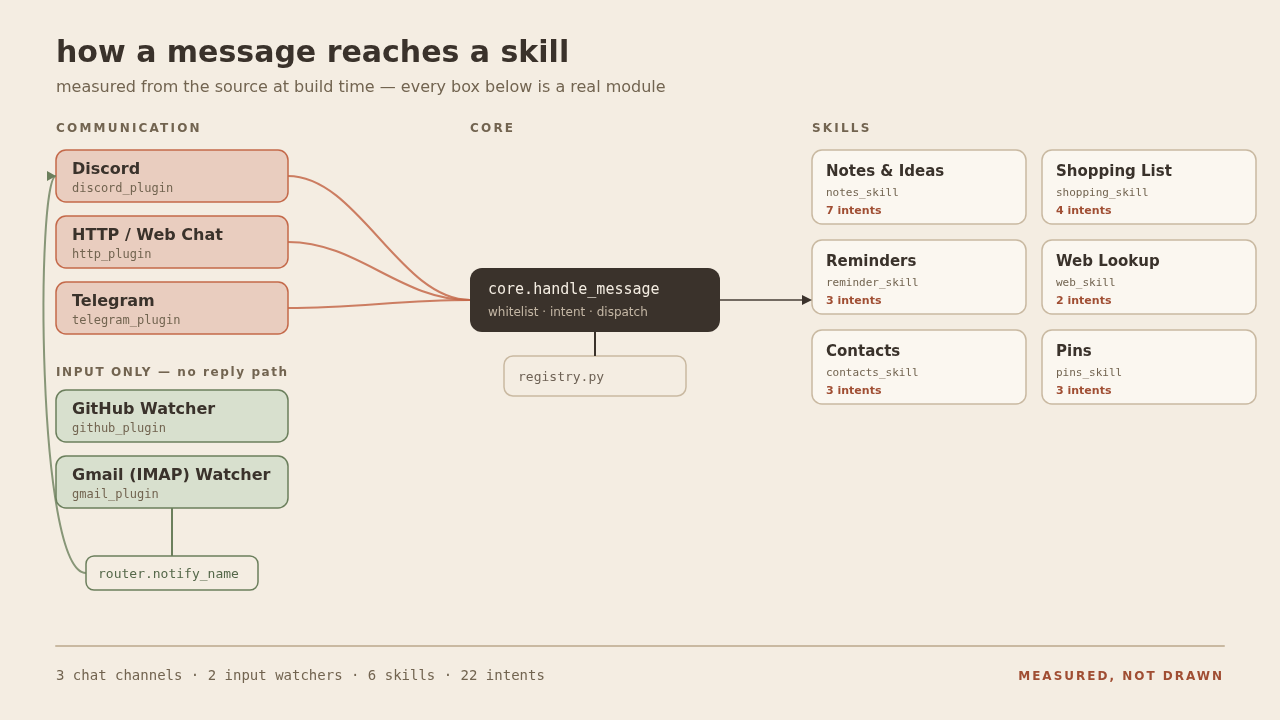
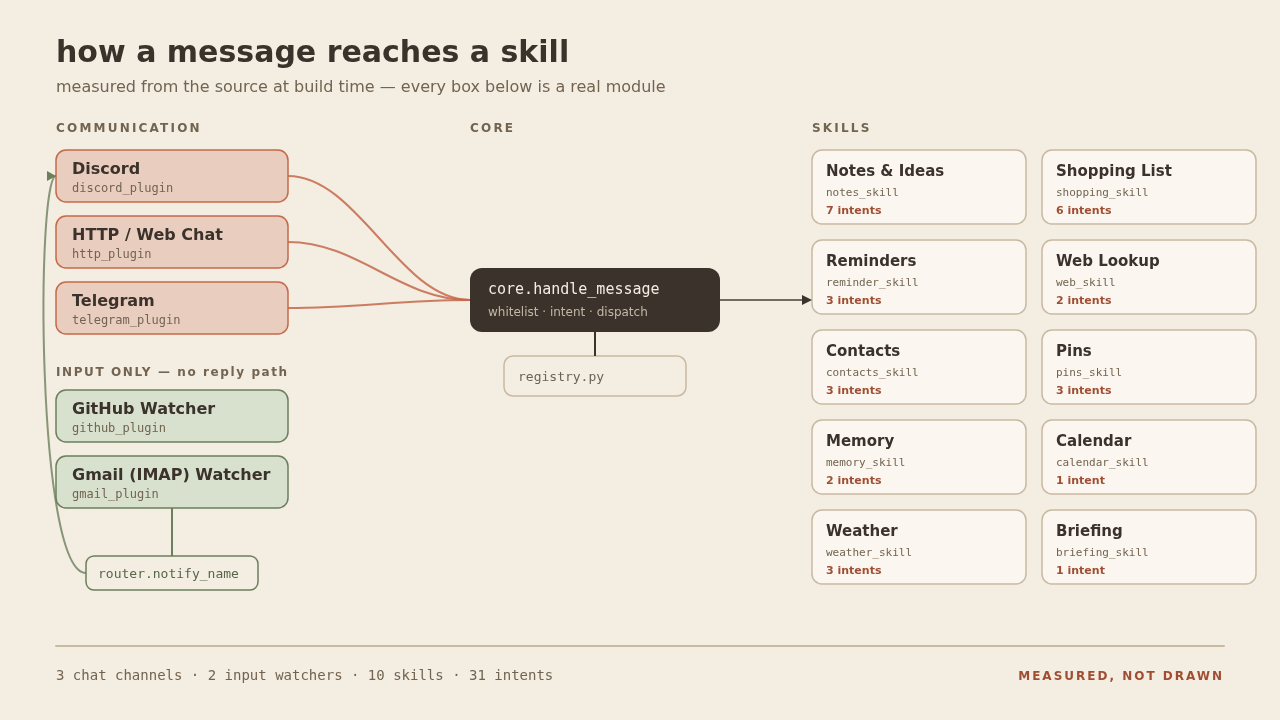
chore(brand): regenerate the architecture figure; test count 1070
The brand pages still measured the pre-roadmap tree: no Memory, Calendar,
Weather or Briefing skill, and no clear_shopping. Rebuilt from the merged
tree (10 skills, 31 intents). Also normalises the CRLF a previous tool left
in brand/*.svg back to LF, so the only content change is the figure.

diff --git a/Brand/brand-system.html b/Brand/brand-system.html
@@ -275,6 +275,8 @@ const ARCH = {
    "intents": [
     "add_shopping_item",
     "remove_shopping_item",
+    "restore_shopping_item",
+    "clear_shopping",
     "recall_shopping",
     "send_shopping_list"
    ]
@@ -313,14 +315,45 @@ const ARCH = {
     "unpin_note",
     "list_pins"
    ]
+  },
+  {
+   "module": "memory_skill",
+   "name": "Memory",
+   "intents": [
+    "recall_memories",
+    "forget_memory"
+   ]
+  },
+  {
+   "module": "calendar_skill",
+   "name": "Calendar",
+   "intents": [
+    "recall_calendar"
+   ]
+  },
+  {
+   "module": "weather_skill",
+   "name": "Weather",
+   "intents": [
+    "get_weather",
+    "set_location",
+    "locate_me"
+   ]
+  },
+  {
+   "module": "briefing_skill",
+   "name": "Briefing",
+   "intents": [
+    "briefing"
+   ]
   }
  ],
  "totals": {
   "chat": 3,
   "input": 2,
   "stubs": 0,
-  "skills": 6,
-  "intents": 22
+  "skills": 10,
+  "intents": 31
  }
 };
 // WCAG 2.1 relative luminance and contrast, recomputed in the browser so the

diff --git a/Brand/social-pack.html b/Brand/social-pack.html
@@ -213,6 +213,8 @@ const ARCH = {
    "intents": [
     "add_shopping_item",
     "remove_shopping_item",
+    "restore_shopping_item",
+    "clear_shopping",
     "recall_shopping",
     "send_shopping_list"
    ]
@@ -251,14 +253,45 @@ const ARCH = {
     "unpin_note",
     "list_pins"
    ]
+  },
+  {
+   "module": "memory_skill",
+   "name": "Memory",
+   "intents": [
+    "recall_memories",
+    "forget_memory"
+   ]
+  },
+  {
+   "module": "calendar_skill",
+   "name": "Calendar",
+   "intents": [
+    "recall_calendar"
+   ]
+  },
+  {
+   "module": "weather_skill",
+   "name": "Weather",
+   "intents": [
+    "get_weather",
+    "set_location",
+    "locate_me"
+   ]
+  },
+  {
+   "module": "briefing_skill",
+   "name": "Briefing",
+   "intents": [
+    "briefing"
+   ]
   }
  ],
  "totals": {
   "chat": 3,
   "input": 2,
   "stubs": 0,
-  "skills": 6,
-  "intents": 22
+  "skills": 10,
+  "intents": 31
  }
 };
 

diff --git a/CLAUDE.md b/CLAUDE.md
@@ -108,7 +108,7 @@ Module path renames (for grep/context when reading old plans/specs):
 ```bash
 source venv/bin/activate
 pip install -r requirements.txt
-pytest -q                        # 1063 passed as of 2026-09-26
+pytest -q                        # 1070 passed as of 2026-09-26
 python3 -m wren.run              # needs .env; see .env.example
 ```
 
